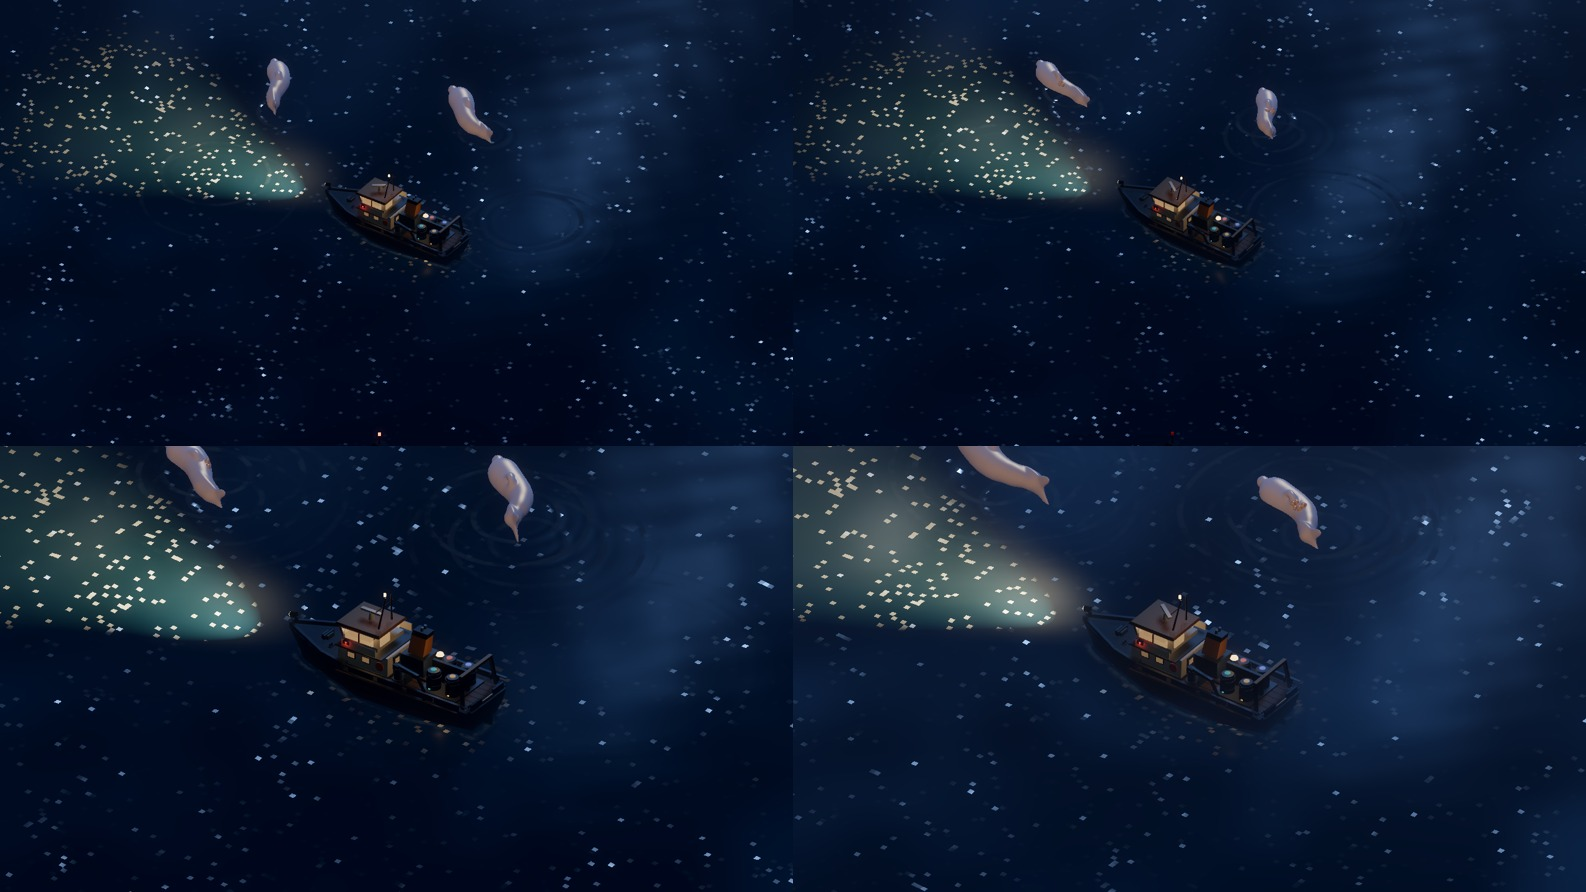
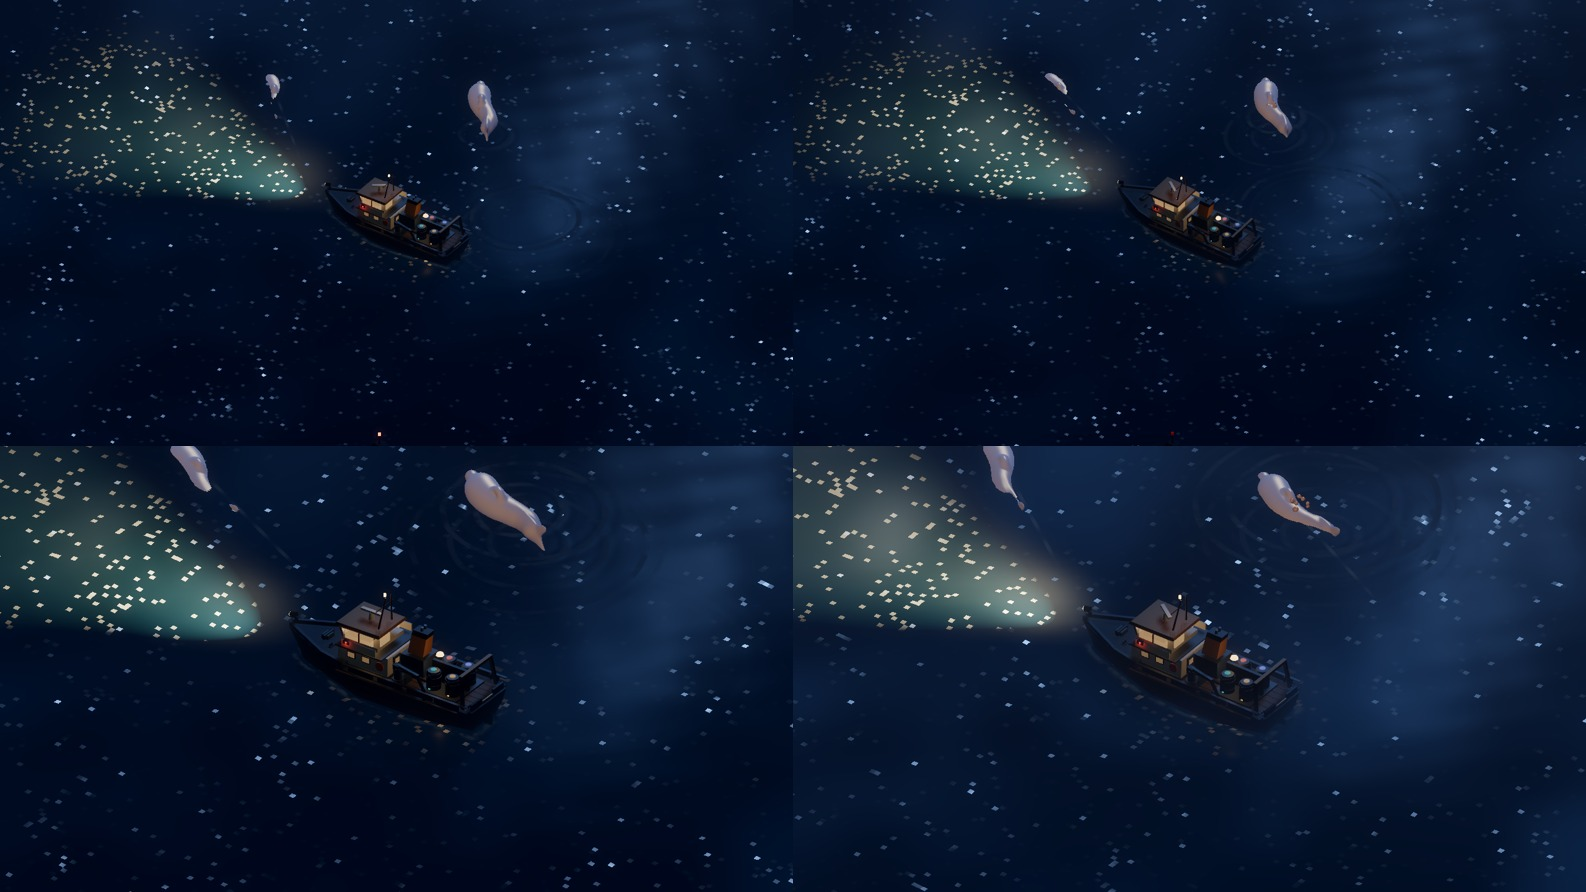
Киты: спина над водой (заметный горб вместо щели), тело 4–4.6 м

diff --git a/tests/check_sea_whales.py b/tests/check_sea_whales.py
@@ -30,7 +30,7 @@ assert 'const WHALE_COUNT := 2' in whales
 # Ночной полноэкранный проход дешевле рыбьего: крупному телу хватает грубее.
 assert 'const SDF_STEPS := 48' in whales and 'const SDF_EPSILON := 0.03' in whales
 assert 'set_shader_parameter("max_steps", SDF_STEPS)' in whales
-assert 'const WHALE_SCALE := 1.9' in whales
+assert 'const WHALE_SCALE := 2.0' in whales
 # Стая ставится дугой перед точкой и переставляется, если судно ушло.
 assert 'place_school(at, fwd, SCHOOL_RADIUS, TINT)' in whales
 assert 'REGROUP_DIST' in whales
